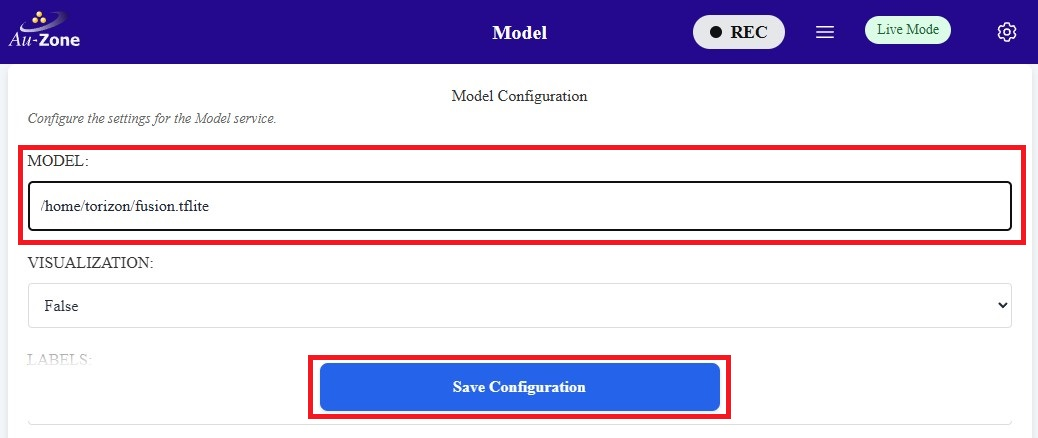
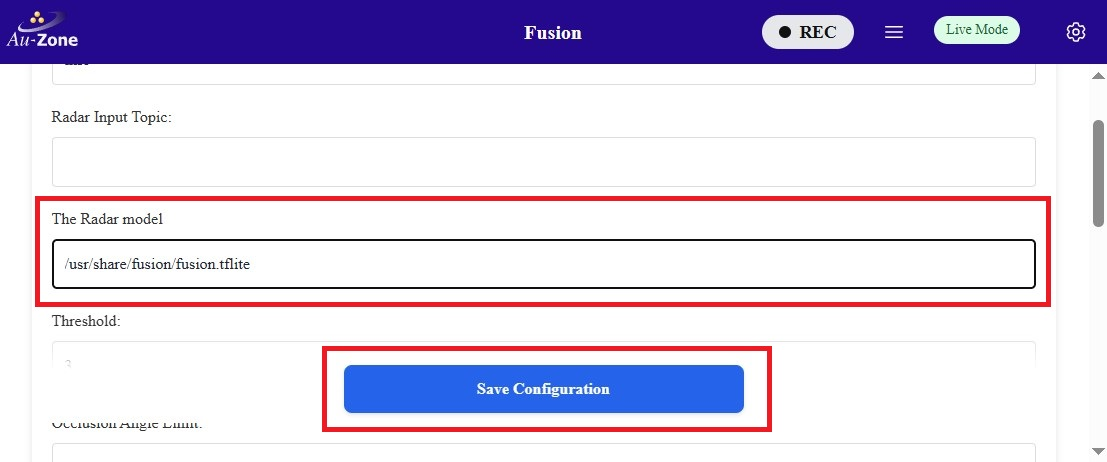
[DE_2167]: Fix 3D documentation for updating the model path.

diff --git a/docs/models/deployment/2d_raivin.md b/docs/models/deployment/2d_raivin.md
@@ -1,6 +1,6 @@
 # Deploying to the Raivin
 
-Now that you have [validated your Vision model](../validation/fusion/managed.md), this guide will walk you through deploying Fusion models in a [Raivin Platform](../../platforms/index.md).  
+Now that you have validated your Vision Model from either a [managed](../validation/vision/managed.md) or [user-managed](../validation/vision/user_managed.md) session, this guide will walk you through deploying Vision models in an [EdgeFirst Platform](../../platforms/index.md) such as a Maivin or a Raivin.
 
 <figure markdown="span">
 ![Raivin](../../platforms/assets/raivin.png){ align=center }
@@ -36,7 +36,7 @@ Next you will need to specify the path to the model in the device.  You can eith
 !!! note "Configure Model Settings"
     Whenever a new model has been updated, ensure that the [model settings](../../platforms/configuration.md#model-configuration) such as the score and the IoU thresholds are ideally set for this model. 
 
-=== "via Web UI"
+=== "via Raivin Web UI"
 
     Once you are in the Web UI main page, you can specify the path to the model by following the steps below.
 
@@ -57,11 +57,11 @@ Next you will need to specify the path to the model in the device.  You can eith
     Configure the path to the model in your device as specified under "MODEL:".  Once configured, click "Save Configuration" to save your changes.
 
     <figure markdown="span">
-    ![Model Path](../assets/deployment/configure-model-path-raivin.jpg){ align=center }
+    ![Model Path](../assets/deployment/configure-model-path-maivin.jpg){ align=center }
     <figcaption>Model Path</figcaption>
     </figure>
 
-=== "via Command Line"
+=== "via Raivin Command Line"
 
     To update the model path using the command line in the device, edit the following file using `sudo vi /etc/default/model`.
 
@@ -106,26 +106,21 @@ Now you will see a live inference of the model in the device.  Once all services
 <figcaption>Segmentation App</figcaption>
 </figure>
 
-This will run inference on the model specified to generate segmentation masks of identified objects on the camera feed and highlights the radar point clouds on the occupancy grid marking the positions of the objects in world coordinates.  Examples are shown below.
+This will run inference on the model specified to generate segmentation masks and/or bounding boxes of identified objects on the camera feed.  In this case, the model is identifying coffee cups in the video feed.  An example is shown below.
 
 <figure markdown="span">
-![Sample 1](../assets/deployment/occupancy-sample-1.jpg){ align=center }
+![Segmentation Sample 1](../assets/deployment/segmentation-sample-1.jpg){ align=center }
 <figcaption>Sample 1</figcaption>
-</figure>
-
-<figure markdown="span">
-![Sample 2](../assets/deployment/occupancy-sample-2.jpg){ align=center }
-<figcaption>Sample 2</figcaption>
 </figure>
 
 Now that the model has been updated, you can [make new recordings](../../platforms/recording.md#record-mcap) using the model's inference and then [visualize the recording using Foxglove Studio](../../platforms/foxglove.md).
 
 ## Inference Visualization in Foxglove
 
-Once the MCAP recording has been downloaded, you can use Foxglove Studio to see the playback of MCAP recordings and the model inference.  The following preview shows the segmentation mask from the model identifying the person in the frame (right) and the occupancy grid highlighting the radar clusters that correspond to the person's position in world coordinates.
+Once the MCAP recording has been downloaded, you can use Foxglove Studio to see the playback of MCAP recordings and the model inference.  The following preview is a frame from the MCAP with the model inference masks overlaid on top of the video. 
 
 <figure markdown="span">
-![Foxglove Sample 1](../../platforms/assets/adv_foxglove-finished_fusion.png){ align=center }
+![Foxglove Sample 1](../assets/deployment/foxglove-sample-1.jpg){ align=center }
 <figcaption>Foxglove Sample 1</figcaption>
 </figure>
 

diff --git a/docs/models/deployment/3d_raivin.md b/docs/models/deployment/3d_raivin.md
@@ -1,6 +1,6 @@
 # Deploying to the Raivin
 
-Now that you have [validated your Fusion model](../validation/fusion/managed.md), this guide will walk you through deploying Fusion models in a [Raivin Platform](../../platforms/index.md).  
+Now that you have [validated your Fusion model](../validation/fusion/managed.md), this guide will walk you through deploying Fusion models in a [Raivin Platform](../../platforms/index.md) for spatial inference.  
 
 <figure markdown="span">
 ![Raivin](../../platforms/assets/raivin.png){ align=center }
@@ -11,7 +11,7 @@ This guide will showcase two methods of deploying the model.
 1. [Live View (Segmentation App)](#live-view-segmentation-app): Displays the live camera feed using the default model provided.
 2. [MCAP Recording](../../platforms/recording.md#record-mcap): Allows control of the recording options and provides download file options to replay the recording.
 
-{% include-markdown "discrete/models/download_model.md" %}
+{% include-markdown "discrete/models/download_fusion_model.md" %}
 
 ## Visit the Web UI Service
 
@@ -47,14 +47,14 @@ Next you will need to specify the path to the model in the device.  You can eith
     <figcaption>Settings</figcaption>
     </figure>
 
-    Select "Model Settings".
+    Select "Fusion Settings".
 
     <figure markdown="span">
-    ![Model Settings](../assets/deployment/raivin-model-settings.jpg){ align=center }
+    ![Model Settings](../assets/deployment/raivin-fusion-settings.jpg){ align=center }
     <figcaption>Model Settings</figcaption>
     </figure>
 
-    Configure the path to the model in your device as specified under "MODEL:".  Once configured, click "Save Configuration" to save your changes.
+    Configure the path to the model in your device as specified under "The Radar model".  Once configured, click "Save Configuration" to save your changes.
 
     <figure markdown="span">
     ![Model Path](../assets/deployment/configure-model-path-raivin.jpg){ align=center }
@@ -63,21 +63,14 @@ Next you will need to specify the path to the model in the device.  You can eith
 
 === "via Command Line"
 
-    To update the model path using the command line in the device, edit the following file using `sudo vi /etc/default/model`.
-
-    Next, you will see the file with the following contents.
-
-    ```vi
-    # This is the configuration file for the model systemd service file.  When
-    # running systemctl start detect the service will use these configurations.
-    # If running model directly, you must continue to use the command-line options.
-
-    # A model is required for the model application. This can be a segmentation model
-    # and/or a detection model.
-    MODEL = "path/to/mymodel.tflite"
-    ```
+    To update the model path using the command line in the device, edit the following file using `sudo vi /etc/default/fusion`.
 
     Edit the following line `MODEL = "path/to/mymodel.tflite"` to point to the specific path to your model.  To edit, press `i` to enter into "Insert Mode".  You should now be able to edit the lines.  To exit "Insert Mode", press the ESC key on your keyboard.  Next save and exit the file by typing `:wq` on your keyboard.  More examples for using `vi` can be found [here](https://coderwall.com/p/adv71w/basic-vim-commands-for-getting-started).
+
+    ```vi
+    # The radar fusion model
+    MODEL = "path/to/mymodel.tflite"
+    ```
 
     Once the path to the model has been updated, restart the model service using `sudo systemctl restart model`.
 

diff --git a/docs/discrete/models/download_fusion_model.md b/docs/discrete/models/download_fusion_model.md
@@ -1,0 +1,62 @@
+# Download the Model
+
+Download the model from EdgeFirst Studio into the device.  There are two methods for downloading the model.  The first method is to download the model from EdgeFirst Studio and then SCP the model file to the device.  The second method is to use the EdgeFirst Client to download the model directly in the device.
+
+=== "Download using SCP"
+
+    As mentioned under the [Training Outcomes](../../models/training/vision.md#training-outcomes) section, the trained models can be downloaded by clicking the "View Additional Details" button on the training session card in EdgeFirst Studio. 
+
+    <figure markdown="span">
+    ![Training Session Attributes](../../models/assets/training/fusion-training-session-attributes.jpg){ align=center }
+    <figcaption>Training Session Attributes</figcaption>
+    </figure>
+
+    This will open the session details and the models are listed under the "Artifacts" tab as shown below.  Click on the downward arrow indicated in red to download the models to your PC.  In this example, you will be deploying the TFLite model in the device.
+
+    | Session Details                                                | Artifacts                                                                     |
+    |----------------------------------------------------------------|-------------------------------------------------------------------------------|
+    | ![session](../../models/assets/training/fusion-session-details.jpg) | ![artifacts](../../models/assets/training/fusion-session-artifacts.jpg) | 
+
+    Once the model is downloaded in your PC, you can [SCP](../../platforms/ssh.md#secure-copy) the model to the device by using this command template.
+
+    ```shell
+    scp <path to the downloaded TFLite model> <destination path>
+    ```
+
+    An example command is shown below.
+
+    ```shell
+    scp modelpack.tflite torizon@verdin-imx8mp-15140753:~
+    ```
+
+=== "Download using EdgeFirst Client"
+
+    This method expects you to have already connected to the device via [SSH](../../platforms/ssh.md).  The [EdgeFirst Client](../../perception/studio.md) can be installed via `pip3 install edgefirst-client`.  You can verify the installation with the client version command.
+
+    ```shell
+    $ edgefirst-client version
+    EdgeFirst Studio Server: 3.7.8-a50429e Client: 1.3.3
+    ```
+
+    Next login to EdgeFirst Studio with the command.
+
+    ```shell
+    $ edgefirst-client login
+    Username: user
+    Password: ****
+    ```
+
+    You can download the model on the device using the `download-artifact` command as shown below.
+
+    ```shell
+    edgefirst-client download-artifact <session ID> <model name>
+    ```
+
+    For example `edgefirst-client download-artifact 3928 fusion.tflite`. This command will download to the current working directory.
+
+    The `download-artifact` expects three arguments.
+
+    * session ID: Pass the trainer or validation integer session ID associated with the models.
+    * model name: Pass the specific model that will be downloaded to the device.  Usually this is `mymodel.tflite`.
+
+    You can find more information on using the [EdgeFirst Client](../../perception/studio.md) in the command line.

diff --git a/docs/3D/deployment.md b/docs/3D/deployment.md
@@ -1,6 +1,6 @@
 # 3D Fusion Model Deployment
 
-If you have a [Raivin Platform](../platforms/index.md) then you can deploy and run the trained Fusion model using the bundled EdgeFirst Middleware by following the tutorial [Deploying to Raivin](../models/deployment/raivin.md).
+If you have a [Raivin Platform](../platforms/index.md) then you can deploy and run the trained Fusion model using the bundled EdgeFirst Middleware by following the tutorial [Deploying to Raivin](../models/deployment/3d_raivin.md).
 
 A sample model inference will show like the following on the Raivin Platform.
 

diff --git a/docs/getting_started/workflows/maivin.md b/docs/getting_started/workflows/maivin.md
@@ -11,7 +11,7 @@ To deploy Vision models on a Maivin, please see the [ModelPack Deployment](../..
 <figcaption>Preview: Segmentation Inference</figcaption>
 </figure>
 
-To deploy Fusion models on a Raivin, please see the [Fusion Deployment](../../models/deployment/raivin.md) instructions.
+To deploy Fusion models on a Raivin, please see the [Fusion Deployment](../../models/deployment/3d_raivin.md) instructions.
 
 <figure markdown="span">
 ![Segmentation Sample](../../models/assets/deployment/occupancy-sample-2.jpg){ align=center }

diff --git a/docs/models/validation/fusion/managed.md b/docs/models/validation/fusion/managed.md
@@ -107,4 +107,4 @@ It is also possible to compare validation metrics for multiple sessions.  See [V
 ## Next Steps
 
 Now that you have validated your Fusion model, follow these next steps
-for [deploying your Fusion model](../../deployment/raivin.md) in a Raivin Platform.
+for [deploying your Fusion model](../../deployment/3d_raivin.md) in a Raivin Platform.
